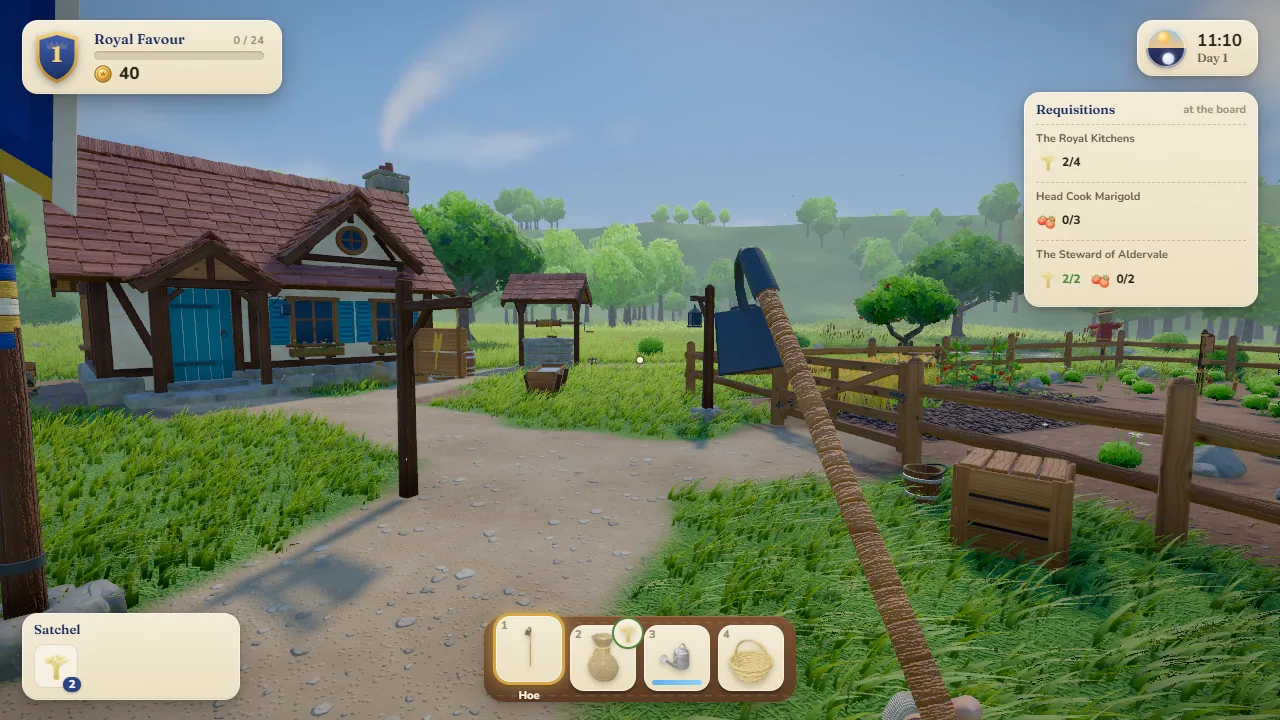
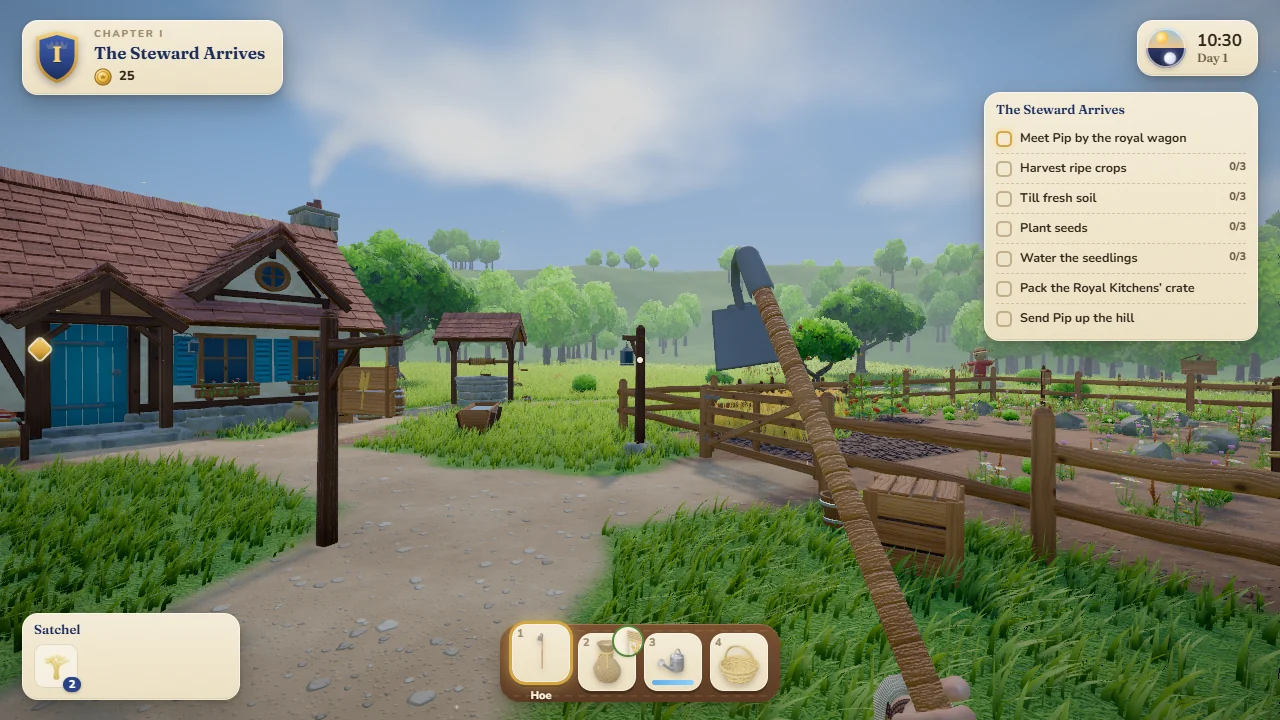
Update Deepwick and Aldervale, add Grand Line Dojo
- Deepwick: old mines, minecarts, grappling hook, water and fishing;
  new cover and four screenshots
- Aldervale: the five-chapter Steward's Year update; new cover and
  four screenshots
- Grand Line Dojo: new prototype, an unofficial fan-made card game
  trainer, at the front of the Prototypes shelf
- New devlog post; Deepwick's spotlight tab points at it

diff --git a/content/devlog/2026-11-19-deepwick-mines-aldervale-story-and-a-card-trainer.md b/content/devlog/2026-11-19-deepwick-mines-aldervale-story-and-a-card-trainer.md
@@ -1,0 +1,56 @@
+---
+title: "Deepwick's old mines, a story for Aldervale, and a card game trainer"
+date: 2026-11-19
+time: "18:00"
+summary: Deepwick got its old mines, minecarts, a grappling hook, water and fishing. Aldervale is now a five-chapter story. Grand Line Dojo, an unofficial card game trainer, is up as a prototype.
+cover: /assets/games/deepwick/cover.webp
+game: deepwick
+---
+
+Deepwick and Aldervale went up as prototypes earlier today, and both have already had a big update. There's a third new game too.
+
+## Deepwick: the old mines
+
+[Deepwick](/games/deepwick/) had two updates. The first rebuilt the underground.
+
+- **The old Deepwick mines:** timbered shafts, ladders, rails and hanging lamps, left from when the town was working.
+- **Minecarts:** press E to climb in, A and D to roll, Space to jump out. Rails, minecarts and mine lamps can be crafted at the anvil.
+- **A grappling hook:** forged at the anvil. G or a click throws it, W and S climb the rope, Space jumps off.
+- **Each layer looks different:** seamless rock, a cave backdrop for every biome, and rock formations.
+
+![Deepwick: the Old Workings, with a minecart on the rails](/assets/games/deepwick/cover.webp)
+
+The second added water.
+
+- **Ponds and cave pools:** swim with Space. Water runs into the holes you dig, and turns lava to obsidian.
+- **Fishing:** a Fishing Rod from the workbench or from Pell, and a Brass Rod from the anvil. Cast, hook, then reel on the timing. There are seven fish depending on where you cast, plus junk and sunken purses, Grilled Fish to cook, and a Fishing skill.
+- **The title screen is the game:** it tours the mine head at dusk, a meadow pond, a lamplit drift and a cavern from each deep layer.
+
+The mines update uses a new save, so a world from before it won't carry over. A save made after it keeps working and gets the cave pools.
+
+## Aldervale: the steward's year
+
+[Aldervale](/games/aldervale/) was built around an order board. Now it's a story in five chapters, from The Steward Arrives to The Harvest Feast. The order board, XP levels and production queues are gone.
+
+- **Letters and objectives:** each chapter opens with a letter and lists what to do, with markers in the world.
+- **Pip's wagon:** commissions are packed into a crate, and Pip drives them up to the castle with a pony and wagon.
+- **Land cleared by hand:** with a new axe and pick.
+- **Buildings you work in the world:** the windmill's hopper, the hen run and the bakehouse oven.
+- **More farm:** Wren's stall for seeds, upgrades and selling, carrots and cabbages, apple trees, compost, sleep and rain.
+- **Also new:** sound, settings, a journal and new models.
+
+![Aldervale: Pip with the pony and wagon](/assets/games/aldervale/shot1.webp)
+
+## New: Grand Line Dojo
+
+[Grand Line Dojo](/games/grand-line-dojo/) is an unofficial, fan-made trainer for the One Piece Card Game. It's single player: you play the ST-30 "Luffy & Ace" starter deck against six CPU starter decks, and a coach explains every decision.
+
+- **24 lessons** with quizzes, plus counter-maths and lethal drills.
+- **A Card Library** of all 2,980 cards as text.
+- **Deck Lab** to build a list, check it and test it against the CPU.
+
+![Grand Line Dojo: turn 7 against the Straw Hat Crew deck, with the coach on the right](/assets/games/grand-line-dojo/cover.webp)
+
+Its limits: 1,232 of those cards (41%) can be played in matches, and the CPU is rule-based, so it's a sparring partner for fundamentals. Every picture is an original drawing. No official card artwork is used, and the project isn't affiliated with or endorsed by the card game's owners.
+
+It's on the Prototypes shelf.

diff --git a/README.md b/README.md
@@ -14,6 +14,7 @@ The home of ycgNem's games: free browser games, built in the open.
 | Pixel RTS | https://ycgnem.github.io/games/pixel-rts/ |
 | Foldworks | https://ycgnem.github.io/games/foldworks/ |
 | Stillframe | https://ycgnem.github.io/games/stillframe/ |
+| Grand Line Dojo | https://ycgnem.github.io/games/grand-line-dojo/ |
 | Deepwick | https://ycgnem.github.io/games/deepwick/ |
 | Aldervale | https://ycgnem.github.io/games/aldervale/ |
 | Dumpster Alchemy | https://ycgnem.github.io/games/dumpster-alchemy/ |
